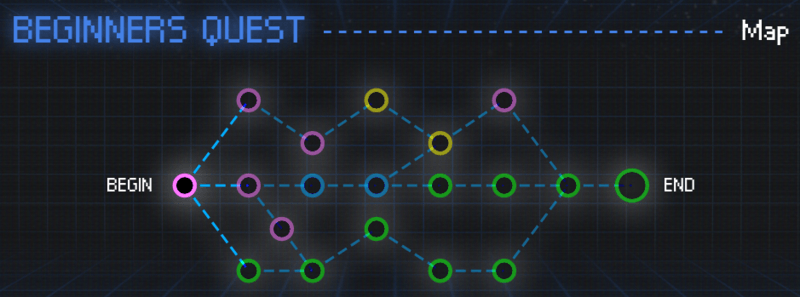
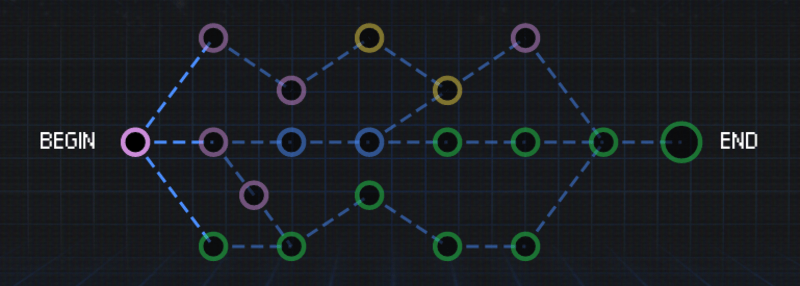
enlarge map.png

diff --git a/_posts/2018-07-09-google-ctf-beginners-quest-part-1.md b/_posts/2018-07-09-google-ctf-beginners-quest-part-1.md
@@ -21,16 +21,16 @@ Google concluded their [Google CTF](https://capturetheflag.withgoogle.com/) not 
 
 The quest has eighteen challenges as shown in the quest map—each color representing a category: <span style="color: rgb(203, 140, 217)">**purple**</span> (**misc**), <span style="color: rgb(34, 205, 75)">**green**</span> (**pwn/pwn-re**), <span style="color: rgb(231, 206, 66)">**yellow**</span> (**re**), and <span style="color: rgb(75, 142, 255)">**blue**</span> (**web**). Every challenge, if there's a need—contains an attachment—an archive file with its SHA256 hash as filename.
 
-<map name="image-map">
-<area shape="circle" alt="Letter" title="Letter" coords="184,185,13" href="#letter" />
-<area shape="circle" alt="Floppy" title="Floppy" coords="249,185,13" href="#floppy" />
-<area shape="circle" alt="Floppy 2" title="Floppy 2" coords="283,228,13" href="#floppy-2" />
-<area shape="circle" alt="Moar" title="Moar" coords="249,270,13" href="#moar" />
-<area shape="circle" alt="Admin UI" title="Admin UI" coords="313,271,13" href="#admin-ui" />
-<area shape="circle" alt="Admin UI 2" title="Admin UI 2" coords="376,228,13" href="#admin-ui-2" />
-<area shape="circle" alt="OCR is Cool" title="OCR is Cool" coords="249,100,13" href="#ocr-is-cool" />
-<area shape="circle" alt="Security by Obscurity" title="Security by Obscurity" coords="313,143,13" href="#security-by-obscurity" />
-<area shape="circle" alt="JS Safe" title="JS Safe" coords="312,186,13" href="#js-safe" target="" />
+<map id="image-map" name="image-map">
+<area shape="circle" alt="Letter" title="Letter" coords="135,141,14" href="#letter" />
+<area shape="circle" alt="Floppy" title="Floppy" coords="212,141,14" href="#floppy" />
+<area shape="circle" alt="Floppy 2" title="Floppy 2" coords="253,194,14" href="#floppy-2" />
+<area shape="circle" alt="Moar" title="Moar" coords="213,246,14" href="#moar" />
+<area shape="circle" alt="Admin UI" title="Admin UI" coords="291,245,14" href="#admin-ui" />
+<area shape="circle" alt="Admin UI 2" title="Admin UI 2" coords="368,194,14" href="#admin-ui-2" />
+<area shape="circle" alt="JS Safe" title="JS Safe" coords="291,142,14" href="#js-safe" />
+<area shape="circle" alt="OCR is Cool" title="OCR is Cool" coords="213,37,14" href="#ocr-is-cool" />
+<area shape="circle" alt="Security by Obscurity" title="Security by Obscurity" coords="291,89,14" href="#security-by-obscurity" />
 </map>
 <img src="/assets/images/posts/google-ctf-beginners-quest-part-1/map.png" usemap="#image-map">
 
